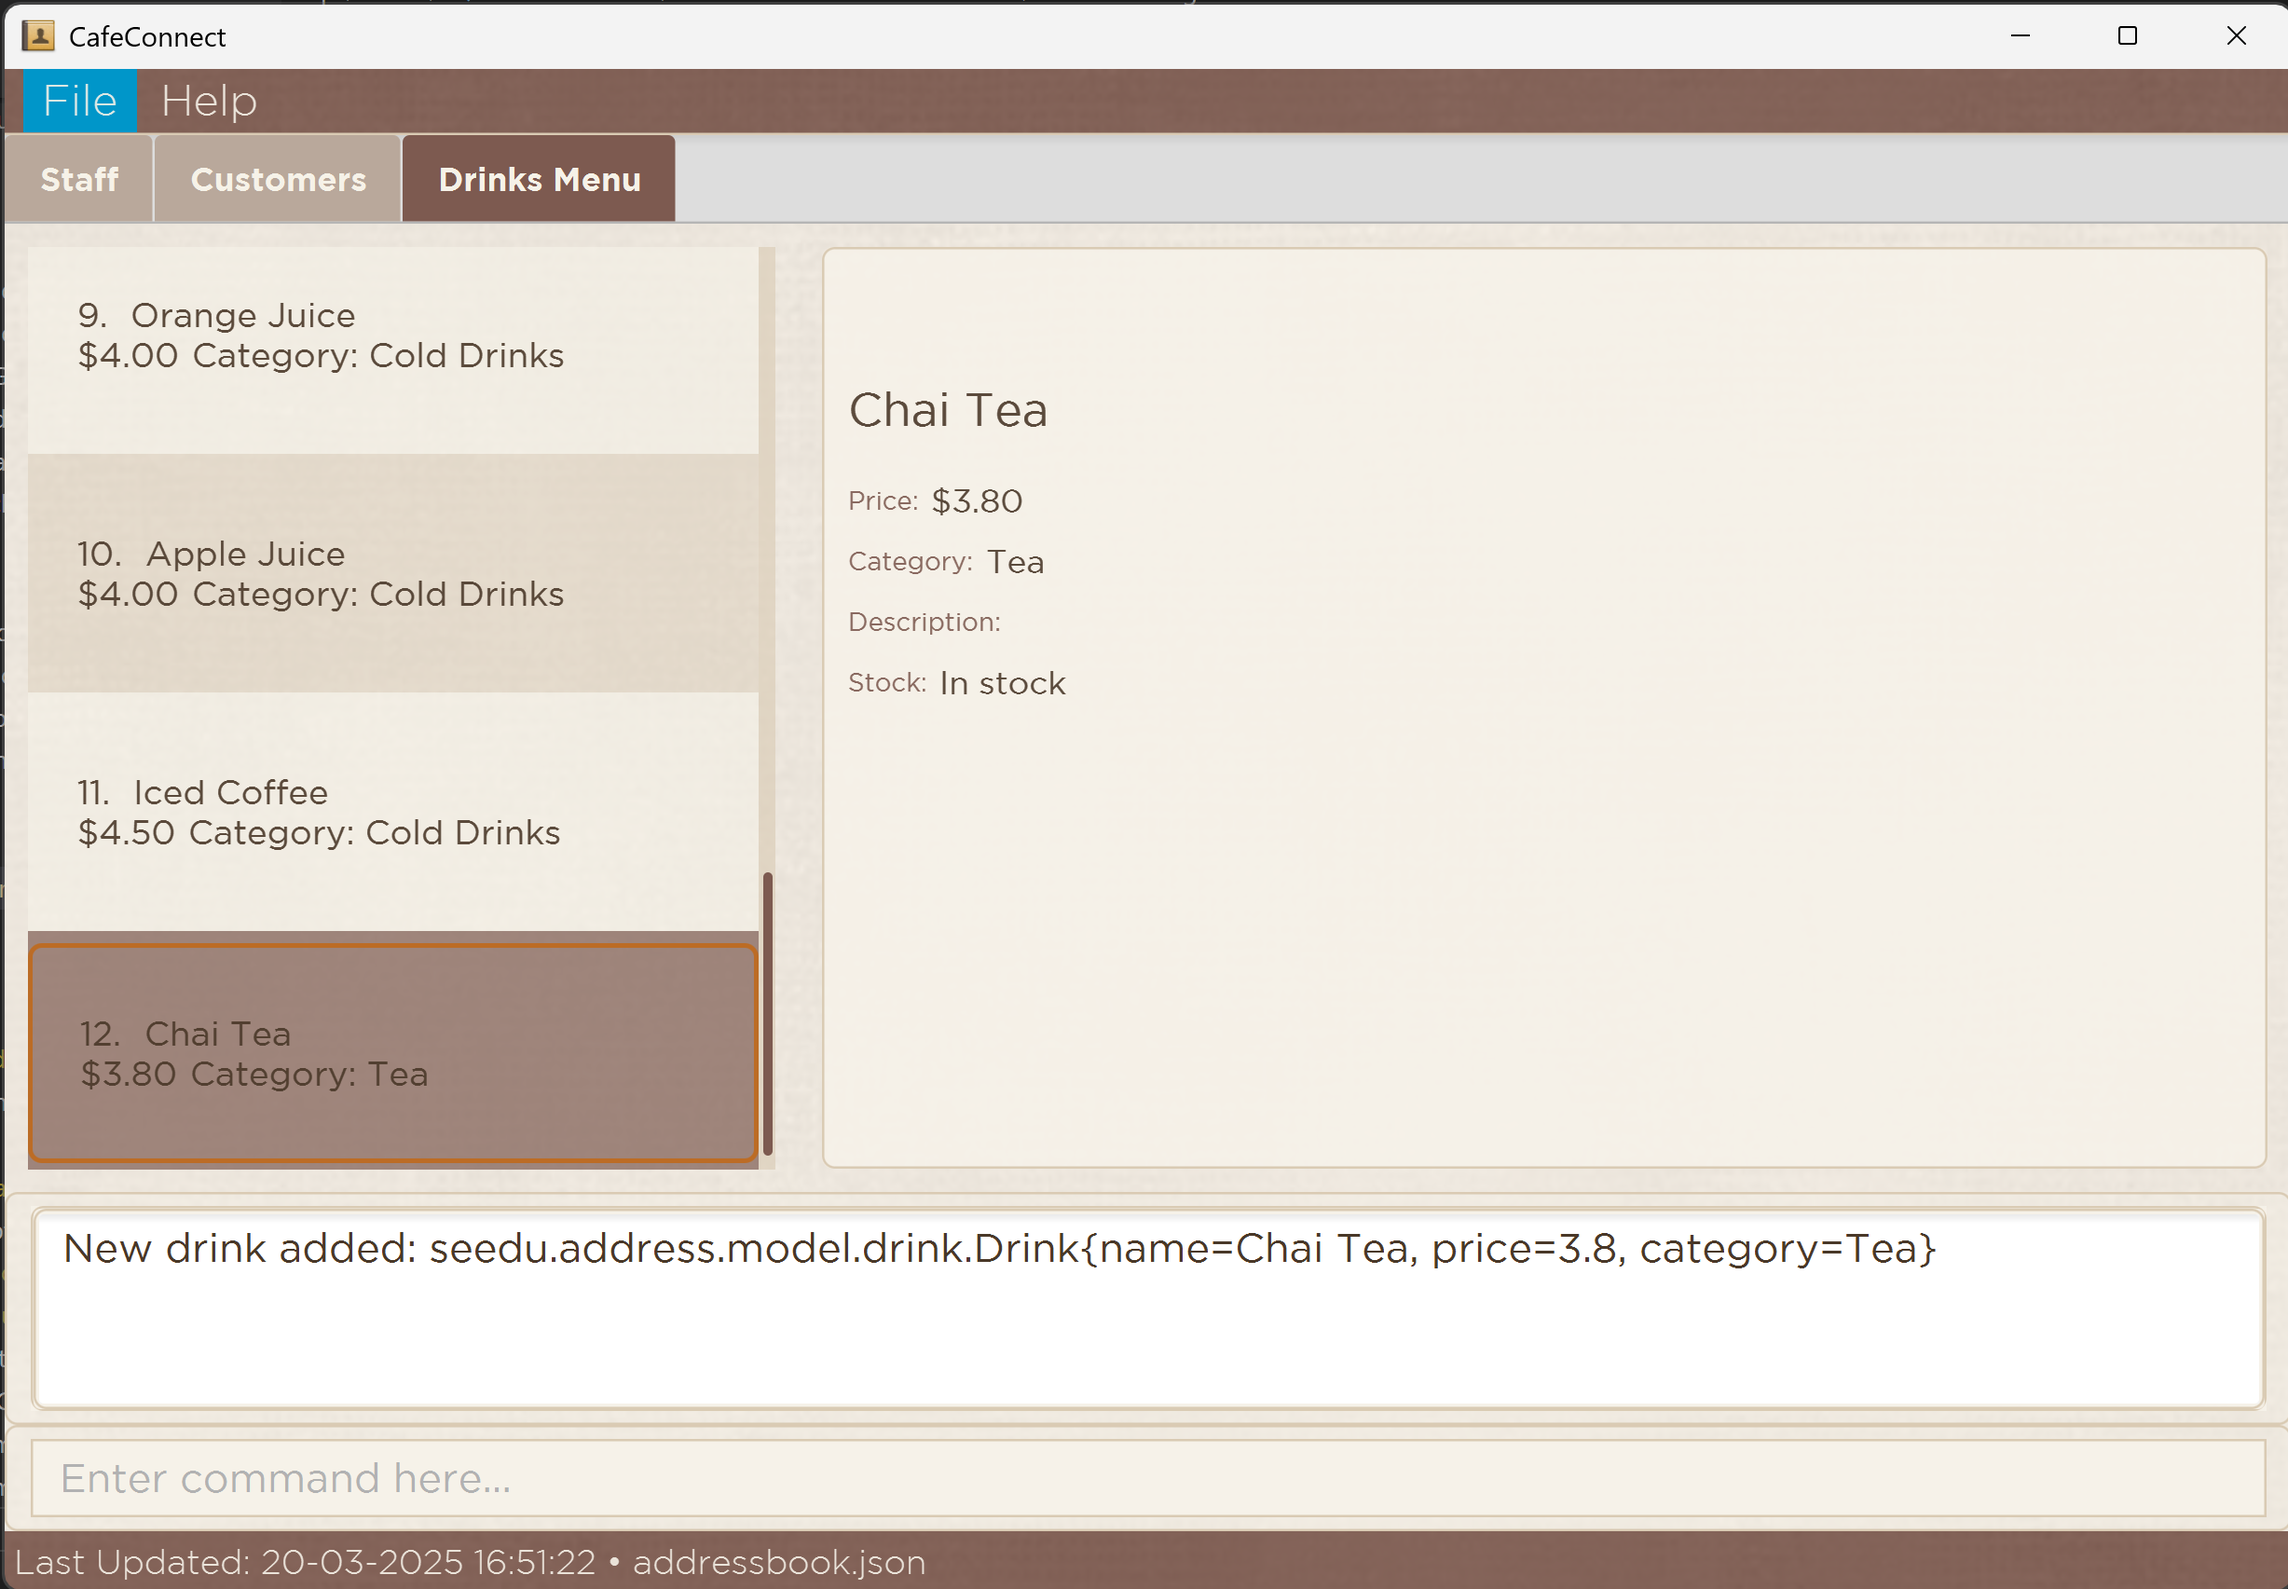
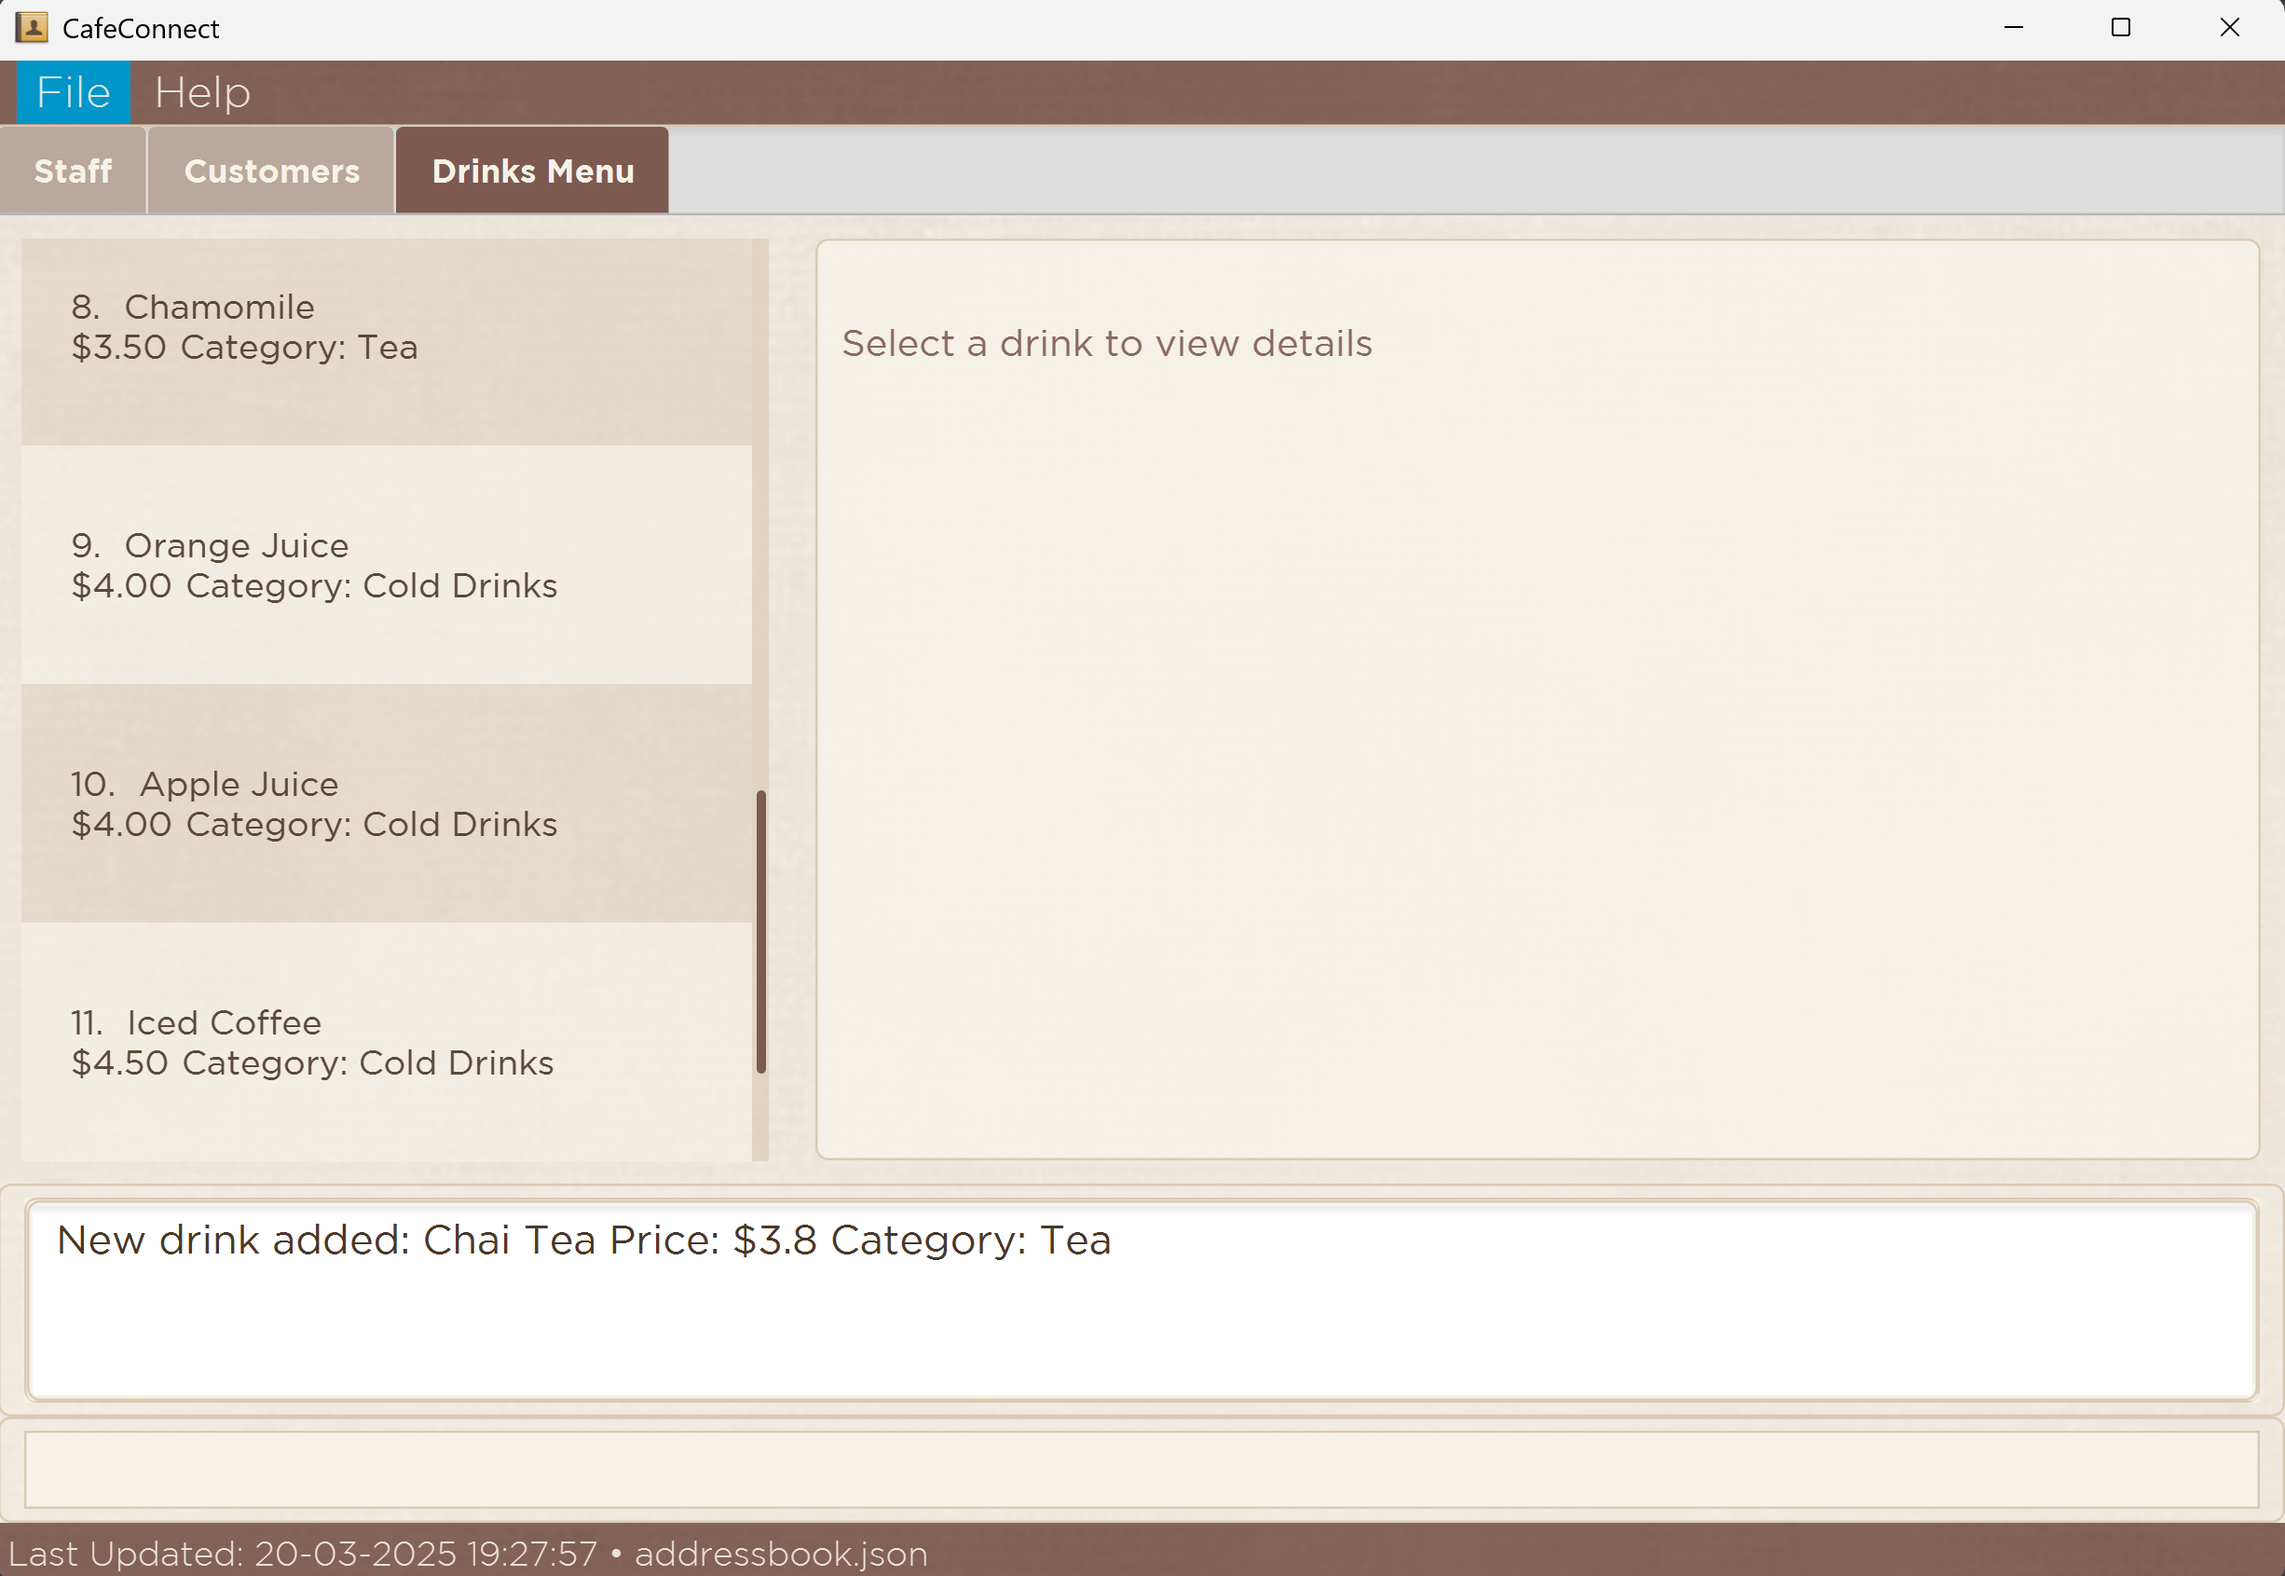
fix drinkadd

diff --git a/src/main/java/seedu/address/model/drink/Drink.java b/src/main/java/seedu/address/model/drink/Drink.java
@@ -4,8 +4,6 @@ import static seedu.address.commons.util.CollectionUtil.requireAllNonNull;
 
 import java.util.Objects;
 
-import seedu.address.commons.util.ToStringBuilder;
-
 /**
  * Represents a Drink in the café management system.
  * Guarantees: details are present and not null, field values are validated, immutable.
@@ -110,10 +108,6 @@ public class Drink {
 
     @Override
     public String toString() {
-        return new ToStringBuilder(this)
-                .add("name", name)
-                .add("price", price)
-                .add("category", category)
-                .toString();
+        return getName() + " Price: $" + getPrice() + " Category: " + getCategory();
     }
 }

diff --git a/src/test/java/seedu/address/model/drink/DrinkTest.java b/src/test/java/seedu/address/model/drink/DrinkTest.java
@@ -72,10 +72,7 @@ public class DrinkTest {
     @Test
     public void toStringMethod() {
         Drink latte = new Drink("Latte", 4.50, "Coffee");
-        String expected = new StringBuilder()
-                .append(Drink.class.getCanonicalName())
-                .append("{name=Latte, price=4.5, category=Coffee}")
-                .toString();
+        String expected = "Latte Price: $4.5 Category: Coffee";
         assertEquals(expected, latte.toString());
     }
 }
